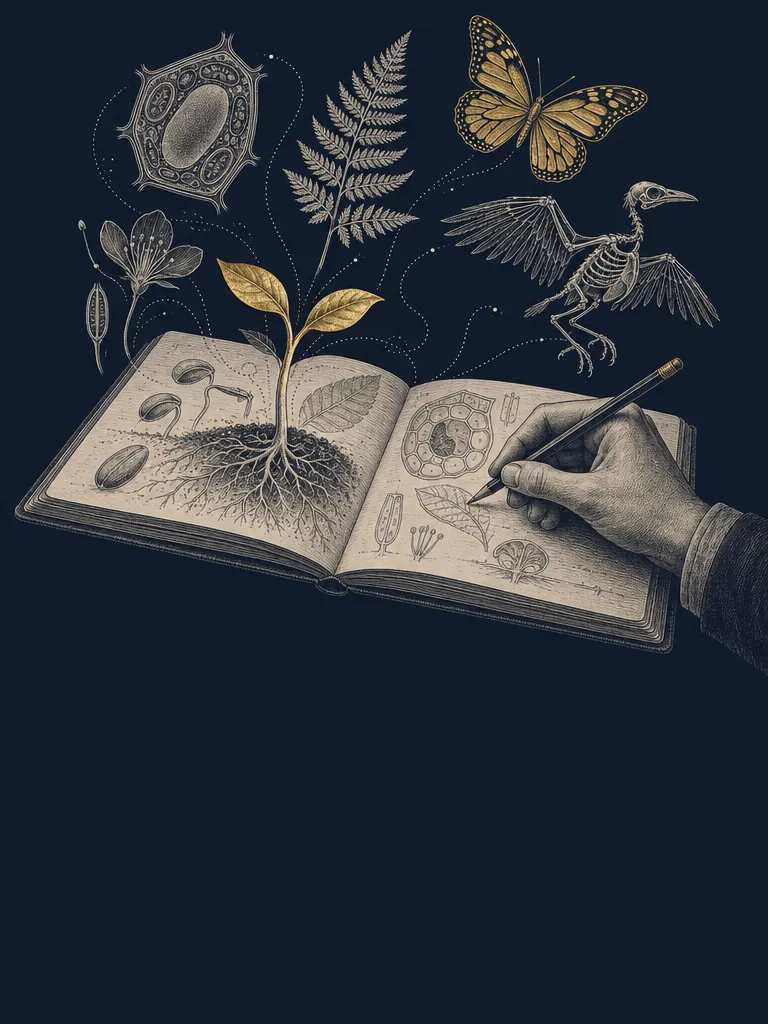
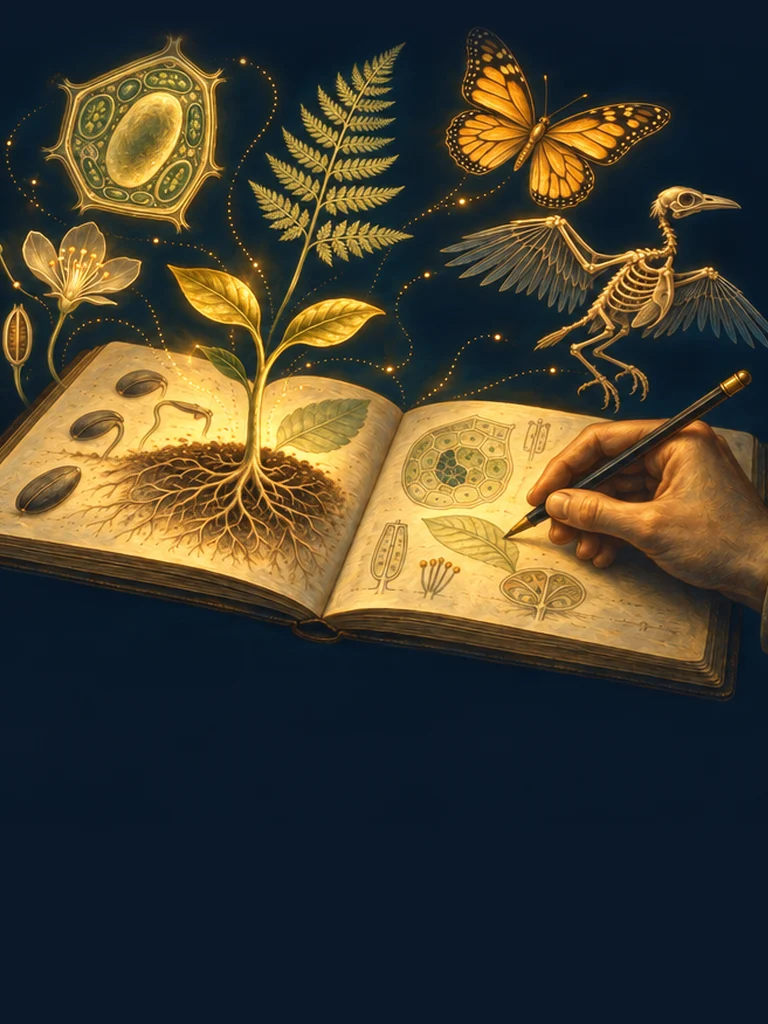
Wat word jij?: vakplaten in volle kleur zoals de ronde iconen
Claude-Session: https://claude.ai/code/session_01CcAfyKdEfEBYZ2YFP1ythP

diff --git a/vervolg.html b/vervolg.html
@@ -295,8 +295,8 @@ a.fr:hover .fb{border-color:var(--goud)}
 .ovg li a:hover .tk img{transform:scale(1.06)}
 /* Vullende gravureplaat achter de richtingtegel (Kamiel 21 okt 2026), alleen in de donkere stand; lijst KPLAAT */
 .ovg-kop{position:relative;isolation:isolate;overflow:hidden}
-.ovg-kop .kplaat{position:absolute;inset:0;z-index:-1;background:var(--kp) no-repeat center 18%/cover;opacity:.62}
-.ovg-kop .kplaat::after{content:"";position:absolute;inset:0;background:linear-gradient(to top,var(--surface) 0%,color-mix(in srgb,var(--surface) 80%,transparent) 30%,transparent 70%)}
+.ovg-kop .kplaat{position:absolute;inset:0;z-index:-1;background:var(--kp) no-repeat center 18%/cover;opacity:1}
+.ovg-kop .kplaat::after{content:"";position:absolute;inset:0;background:linear-gradient(to top,var(--surface) 0%,color-mix(in srgb,var(--surface) 60%,transparent) 22%,transparent 48%)}
 :root:not([data-theme="light"]) .ovg-kop.met-plaat{justify-content:flex-end;padding-bottom:26px}
 :root[data-theme="light"] .ovg-kop .kplaat{display:none}
 @media (max-width:1040px){:root:not([data-theme="light"]) .ovg-kop.met-plaat{min-height:170px;padding:18px 22px 16px}.ovg-kop .kplaat{background-position:center 12%}.ovg-kop .kplaat::after{background:linear-gradient(to top,var(--surface) 0%,color-mix(in srgb,var(--surface) 70%,transparent) 45%,color-mix(in srgb,var(--surface) 25%,transparent) 100%)}}
@@ -398,7 +398,7 @@ body.overzicht .ovz{background:color-mix(in srgb,var(--surface) 86%,transparent)
    Een losse tekst (oude vorm) werkt ook nog. Een film die af is: zet hem als [titel, href], dan wordt het een link.
    'pta' bevat alle films uit 'bouwt'; draai scripts/vervolg_films.py na wijzigingen.
    bouwt: hoofdstukken op deze site waar het gebied op voortbouwt [label, hoofdstuk-id] ===== */
-/* Vullende gravureplaat per richting in het overzicht: img/kunst/vervolg/<id>.webp (Kamiel 21 okt 2026, alle zes richtingen) */
+/* Vullende plaat per richting in het overzicht: img/kunst/vervolg/<id>.webp, sinds 21 okt 2026 in volle kleur in de stijl van de ronde iconen (Kamiel koos variant D: op volle sterkte, kort verloop onderaan). De oude grijze gravures staan in img/kunst/vervolg/gravure/. */
 const KPLAAT = ['gedrag','zorg','lab','voeding','groen','onderwijs'];
 const CLUSTERS = [
  {id:'gedrag',naam:'Gedrag en hersenen',kleur:'paars',sub:'Denken, voelen, opgroeien',tekst:'Opleidingen over denken, voelen en gedrag, en de biologie die daaronder ligt.'},
@@ -766,7 +766,7 @@ function overzicht(){
     return [k?`${k} ${k===1?'film':'films'}`:'',n?`${n} komt nog`:''].filter(Boolean).join(' · ')||'komt nog'};
   const tegel=g=>{const c=CL[g.cluster];return `<li><a href="${stap>1?'?stap='+stap:''}#${g.id}"><span class="tk">${VICOON.includes(g.id)?`<img src="img/kunst/iconen/vervolg/${g.id}.webp?v=1" alt="" width="88" height="88" loading="lazy" decoding="async">`:kunst(c.id,c.kleur)}</span><b>${esc(g.naam).replace(/(\S)wetenschappen/g,'$1\u00ADwetenschappen')}</b><span class="mat">${esc(tel(g))}</span></a></li>`};
   return `<section class="ovz" aria-label="Alle vakgebieden"><header><span class="mono">Alle richtingen · studie en beroep</span><h2>Van spreekkamer tot veldwerk</h2><p>Kies een vakgebied. Elk gebied heeft extra films buiten het PTA, en straks ook een werkdag, een praktijkopdracht en de opleidingen.</p></header>
-    ${CLUSTERS.map(c=>`<div class="ovg" id="${c.id}"><div class="ovg-kop${KPLAAT.includes(c.id)?' met-plaat':''}">${KPLAAT.includes(c.id)?`<span class="kplaat" aria-hidden="true" style="--kp:url(img/kunst/vervolg/${c.id}.webp?v=2)"></span>`:''}<h3>${esc(c.naam)}</h3><span class="mono">${esc(c.sub||'')}</span></div><ul>${GEBIEDEN.filter(g=>g.cluster===c.id).map(tegel).join('')}</ul></div>`).join('')}</section>`;
+    ${CLUSTERS.map(c=>`<div class="ovg" id="${c.id}"><div class="ovg-kop${KPLAAT.includes(c.id)?' met-plaat':''}">${KPLAAT.includes(c.id)?`<span class="kplaat" aria-hidden="true" style="--kp:url(img/kunst/vervolg/${c.id}.webp?v=3)"></span>`:''}<h3>${esc(c.naam)}</h3><span class="mono">${esc(c.sub||'')}</span></div><ul>${GEBIEDEN.filter(g=>g.cluster===c.id).map(tegel).join('')}</ul></div>`).join('')}</section>`;
 }
 function render(){
   const g=GB[(location.hash||'').slice(1)];

diff --git a/CLAUDE.md b/CLAUDE.md
@@ -109,3 +109,6 @@ Elke pagina start in de donkere stand, ook als het apparaat op licht staat; alle
 Elke pagina krijgt een knop 'Feedback?' in de kopbalk (naast licht/donker; in films rechts in de sitebalk; op de telefoon een rond '?') en een zwevend '?' rechtsonder zodra de kopbalk uit beeld is (in films verborgen zolang het geluid speelt). `js/feedback.js` wordt meegeladen door `js/teller.js`, dus een nieuwe pagina met de teller heeft hem vanzelf; uitzetten per pagina met `window.BK_GEEN_FEEDBACK = true` of `?feedback=0`. Venster: soort (fout gevonden / onduidelijk / idee / compliment), tekst (≤2000), optioneel naam of klas; pagina, titel, #-plek en bij films het geluidsfragment + tijdstip gaan mee. Opslag: Firebase `edutool`, knooppunt `feedback/<push-id>` via de REST-API zonder inlog (regels in `sessie/database.rules.json`, blok `feedback`: iedereen mag één nieuw bericht toevoegen, alleen de docent leest, zet `status` op verwerkt of verwijdert). Docentoverzicht: `sessie/feedback.html` (inloggen als bij Klas live, filter nieuw/verwerkt/soort, 'Kopieer als lijst' om aan Claude te geven; link ook bovenin `sessie/docent.html`).
 
 Kerndoelkaarten op 'Agora onderbouw' (`onderbouwPagina()` in index.html, Kamiel 21 okt 2026: "bioart, net ietsje kinderlijker want onderbouw"): vullende plaat achter elke actieve kaart, `img/kunst/onderbouw/<kerndoel>.webp` (3:4, gpt-image-2.5-sunburst; onderwerp boven, onderste 40% leeg navy). Kamiel koos dezelfde avond 'toch de kleurrijke variant': gloedstijl zoals de themapictogrammen (Haeckel-achtig, gloeiend in kleur op navy, prentenboekachtig); de eerste ivoor/goud-gravures staan als `img/kunst/varianten/onderbouw/<kd>-gravure.webp`, de kleurversies ook als `<kd>-kleur.webp`. Lijst `KDPLAAT`; alleen in de donkere stand (klasse `met-plaat`, laag `.kdplaat`, ronde lijntekening dan verborgen), in de lichte stand blijft de lijntekening. 32D (volgt) heeft nog geen plaat. ElevenLabs-flow https://elevenlabs.io/app/flows/lQMpaFmvVYZu5EGHnedr, één variant per plaat.
+Kerndoelkaarten op 'Agora onderbouw' (`onderbouwPagina()` in index.html, Kamiel 21 okt 2026: "bioart, net ietsje kinderlijker want onderbouw"): vullende gravureplaat achter elke actieve kaart, `img/kunst/onderbouw/<kerndoel>.webp` (3:4, gpt-image-2.5-sunburst, ivoor/goud op navy maar ronder en prentenboekachtiger dan de 'Wat word jij?'-platen; onderwerp boven, onderste 40% leeg navy). Lijst `KDPLAAT`; alleen in de donkere stand (klasse `met-plaat`, laag `.kdplaat`, ronde lijntekening dan verborgen), in de lichte stand blijft de lijntekening. 32D (volgt) heeft nog geen plaat. ElevenLabs-flow https://elevenlabs.io/app/flows/lQMpaFmvVYZu5EGHnedr, één variant per plaat.
+
+Vakplaten 'Wat word jij?' (overzicht vervolg.html, `.kplaat`, `img/kunst/vervolg/<cluster>.webp`): sinds 21 okt 2026 in volle kleur in de stijl van de ronde iconen (Kamiel: "dezelfde kleur als de rondjes"; koos variant D uit een test met huidig / gedempt / volle kleur / duotoon). Gemaakt in ElevenLabs-flow https://elevenlabs.io/app/flows/vNa3id4usD89yd4eMKaV (gpt-image-2.5-sunburst, edit met de oude gravure als compositie en een rond icoon als stijl: gedrag→neurowetenschappen, zorg→geneeskunde, lab→biomedisch, voeding→voedingsleer, groen→ecologie, onderwijs→leraar), uitgesneden naar 768×1024 met het onderwerp boven en lege navy onderaan. CSS: plaat op opacity 1, kort verloop onderaan (alleen donkere stand). De oude grijze gravures staan in `img/kunst/vervolg/gravure/`.
